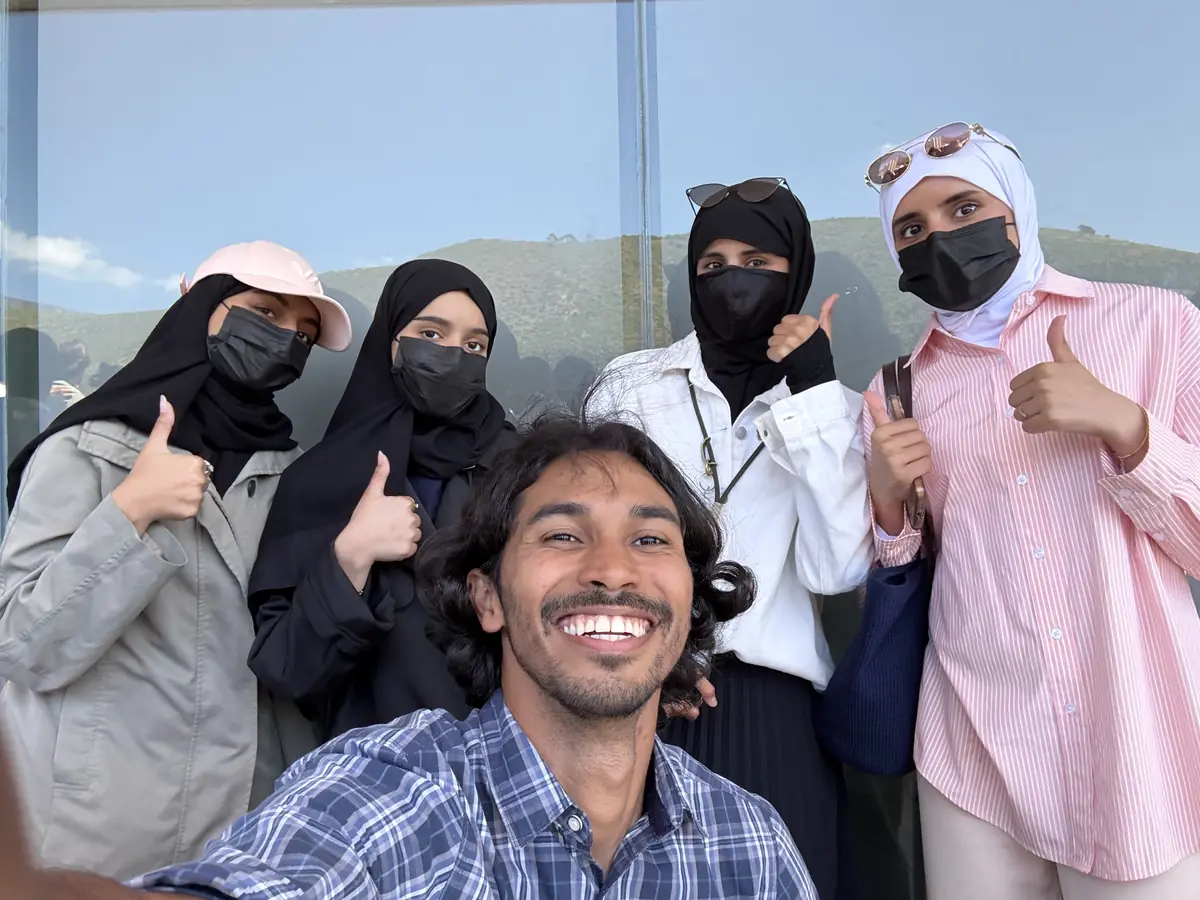
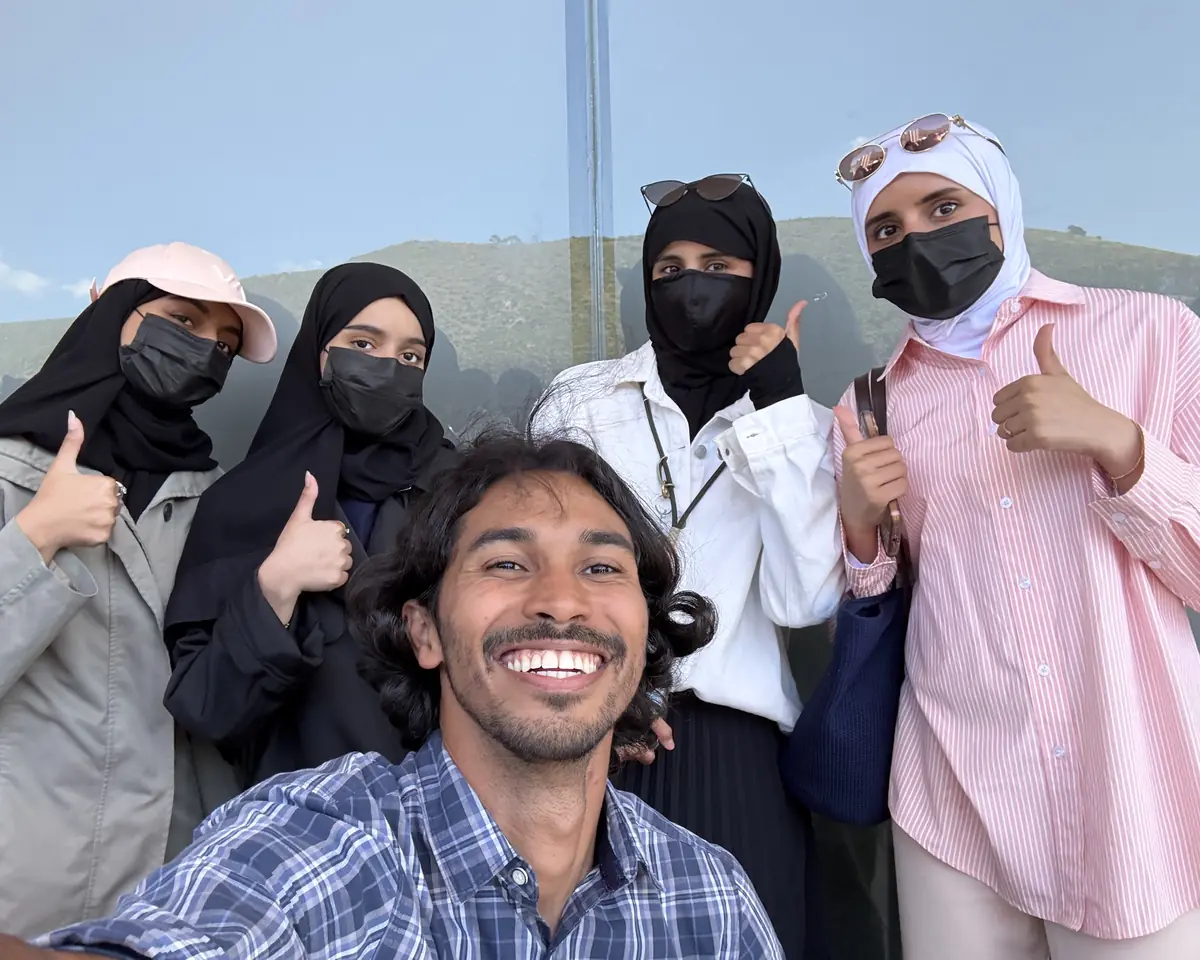
fix(historia): enquadra a amiga de rosa na foto do grupo

diff --git a/components/organisms/PhotoPairMoment.tsx b/components/organisms/PhotoPairMoment.tsx
@@ -12,7 +12,12 @@ const WatercolorScene = dynamic(
   { ssr: false },
 );
 
-export type PaintedPhoto = { frames: SceneFrames; stains: StainPreset };
+export type PaintedPhoto = {
+  frames: SceneFrames;
+  stains: StainPreset;
+  /** Quando o painel corta as laterais da foto, qual coluna fica no centro (padrão 0,5). */
+  focusU?: number;
+};
 
 export interface PhotoPairMomentProps {
   text: string;
@@ -22,6 +27,10 @@ export interface PhotoPairMomentProps {
   second: PaintedPhoto;
   /** Lado das fotos no desktop. O texto fica do outro lado. */
   photosSide: "left" | "right";
+  /** Troca a posição padrão da primeira foto (classes absolutas, mobile + md:). */
+  firstPlace?: string;
+  /** Troca a posição padrão da segunda foto (classes absolutas, mobile + md:). */
+  secondPlace?: string;
 }
 
 const TRACK_VH = 240;
@@ -35,7 +44,7 @@ const TEXT_STYLE = { fontSize: "clamp(1.4rem, 2.4vw, 2.25rem)" } as const;
  * em volta). Texto do outro lado. No celular: fotos em cima e texto embaixo,
  * numa tela só.
  */
-export function PhotoPairMoment({ text, first, second, photosSide }: PhotoPairMomentProps) {
+export function PhotoPairMoment({ text, first, second, photosSide, firstPlace, secondPlace }: PhotoPairMomentProps) {
   const trackRef = useRef<HTMLDivElement>(null);
   const progressRef = useTrackProgress(trackRef);
   const right = photosSide === "right";
@@ -59,26 +68,36 @@ export function PhotoPairMoment({ text, first, second, photosSide }: PhotoPairMo
             frames={first.frames}
             progressRef={progressRef}
             stains={first.stains}
+            focusU={first.focusU}
             paintStart={0}
             paintCompleteAt={0.42}
-            className={[
-              "!absolute top-[12%] h-[64%] w-[94%] md:top-[8%] md:h-[60%] md:w-[88%]",
-              right ? "left-[2%] md:left-0" : "right-[2%] md:right-0",
-            ].join(" ")}
+            className={
+              firstPlace
+                ? `!absolute ${firstPlace}`
+                : [
+                    "!absolute top-[12%] h-[64%] w-[94%] md:top-[8%] md:h-[60%] md:w-[88%]",
+                    right ? "left-[2%] md:left-0" : "right-[2%] md:right-0",
+                  ].join(" ")
+            }
           />
           <WatercolorScene
             frames={second.frames}
             progressRef={progressRef}
             stains={second.stains}
+            focusU={second.focusU}
             paintStart={0.46}
             paintCompleteAt={0.88}
             intro={false}
             transparent
             edgeFade={0.09}
-            className={[
-              "!absolute bottom-0 h-[66%] w-[50%] md:bottom-[4%] md:h-[74%] md:w-[42%]",
-              right ? "right-[3%] md:right-[6%]" : "left-[3%] md:left-[6%]",
-            ].join(" ")}
+            className={
+              secondPlace
+                ? `!absolute ${secondPlace}`
+                : [
+                    "!absolute bottom-0 h-[66%] w-[50%] md:bottom-[4%] md:h-[74%] md:w-[42%]",
+                    right ? "right-[3%] md:right-[6%]" : "left-[3%] md:left-[6%]",
+                  ].join(" ")
+            }
           />
         </div>
       </div>

diff --git a/components/organisms/FriendMoment.tsx b/components/organisms/FriendMoment.tsx
@@ -13,10 +13,18 @@ export function FriendMoment({ text }: { text: string }) {
     <PhotoPairMoment
       text={text}
       photosSide="right"
-      // foto 1 (paisagem): manchas no centro, um pouco pra baixo (rosto do Emanuel)
-      first={{ frames: AMIGA_GRUPO_FRAMES, stains: { focusX: 0.5, focusY: 0.45, spreadX: 0.7, spreadY: 1.05, radius: 0.95 } }}
+      // foto 1 (paisagem 5:4): a amiga de rosa (a cupido) é a estrela — as
+      // manchas puxam pra direita, onde ela está, e se abrem até a borda; se o
+      // painel for mais estreito que a foto, o corte sai só da esquerda (focusU 1)
+      first={{ frames: AMIGA_GRUPO_FRAMES, focusU: 1, stains: { focusX: 0.66, focusY: 0.6, spreadX: 1.1, spreadY: 1.25, radius: 1.1 } }}
       // foto 2 (retrato): manchas puxadas pro alto, onde estão os rostos
       second={{ frames: AMIGA_GABI_FRAMES, stains: { focusX: 0.5, focusY: 0.62, spreadX: 1.4, spreadY: 0.8, radius: 0.72 } }}
+      // no celular: foto 1 mais baixa (livre do header) e quase na proporção
+      // da foto (5:4), pra não cortar a cabeça da amiga de rosa
+      firstPlace="left-[2%] top-[16%] h-[68%] w-[88%] md:left-0 md:top-[8%] md:h-[60%] md:w-[88%]"
+      // foto 2 mais baixa e menor que o padrão, pra não cobrir o rosto e o
+      // tronco da amiga de rosa, que fica no canto direito da foto 1
+      secondPlace="bottom-0 right-[2%] h-[50%] w-[42%] md:bottom-[2%] md:right-[4%] md:h-[48%] md:w-[36%]"
     />
   );
 }

diff --git a/components/three/WatercolorScene.tsx b/components/three/WatercolorScene.tsx
@@ -37,6 +37,8 @@ export interface WatercolorSceneProps {
   /** Margem de papel onde a tinta termina antes da borda (em alturas do canvas). */
   edgeFade?: number;
   stains: StainPreset;
+  /** Coluna da imagem que fica no centro quando o painel corta as laterais (0 = esquerda, 1 = direita). */
+  focusU?: number;
   className?: string;
 }
 
@@ -58,6 +60,7 @@ export function WatercolorScene({
   transparent = false,
   edgeFade = 0.07,
   stains,
+  focusU = 0.5,
   className,
 }: WatercolorSceneProps) {
   const containerRef = useRef<HTMLDivElement>(null);
@@ -137,7 +140,7 @@ export function WatercolorScene({
       const b = store.nearestDecoded(ib);
       const exact = a && b && a.index === ia && b.index === ib;
       try {
-        engine.render(paint, a, exact ? b : null, exact ? f - ia : 0, 0.5);
+        engine.render(paint, a, exact ? b : null, exact ? f - ia : 0, focusU);
       } catch {
         fail();
       }
@@ -211,7 +214,7 @@ export function WatercolorScene({
       store?.dispose();
       engine?.dispose();
     };
-  }, [frames, progressRef, paintCompleteAt, paintStart, intro, transparent, edgeFade, stains, generation]);
+  }, [frames, progressRef, paintCompleteAt, paintStart, intro, transparent, edgeFade, stains, focusU, generation]);
 
   return (
     <div ref={containerRef} className={["relative", className].filter(Boolean).join(" ")} aria-hidden="true">

diff --git a/components/three/watercolor/frames.ts b/components/three/watercolor/frames.ts
@@ -249,7 +249,9 @@ function releaseSource(src: FrameSource) {
 export const AMIGA_GRUPO_FRAMES = {
   desktop: { base: "/historia/amiga/grupo/d", count: 1 } satisfies FrameSet,
   mobile: { base: "/historia/amiga/grupo/m", count: 1 } satisfies FrameSet,
-  aspect: 4 / 3,
+  // recorte 5:4 puxado pra direita (tira a lateral esquerda)
+  // pra amiga de rosa — a cupido — entrar inteira
+  aspect: 5 / 4,
 };
 export const AMIGA_GABI_FRAMES = {
   desktop: { base: "/historia/amiga/gabi/d", count: 1 } satisfies FrameSet,
